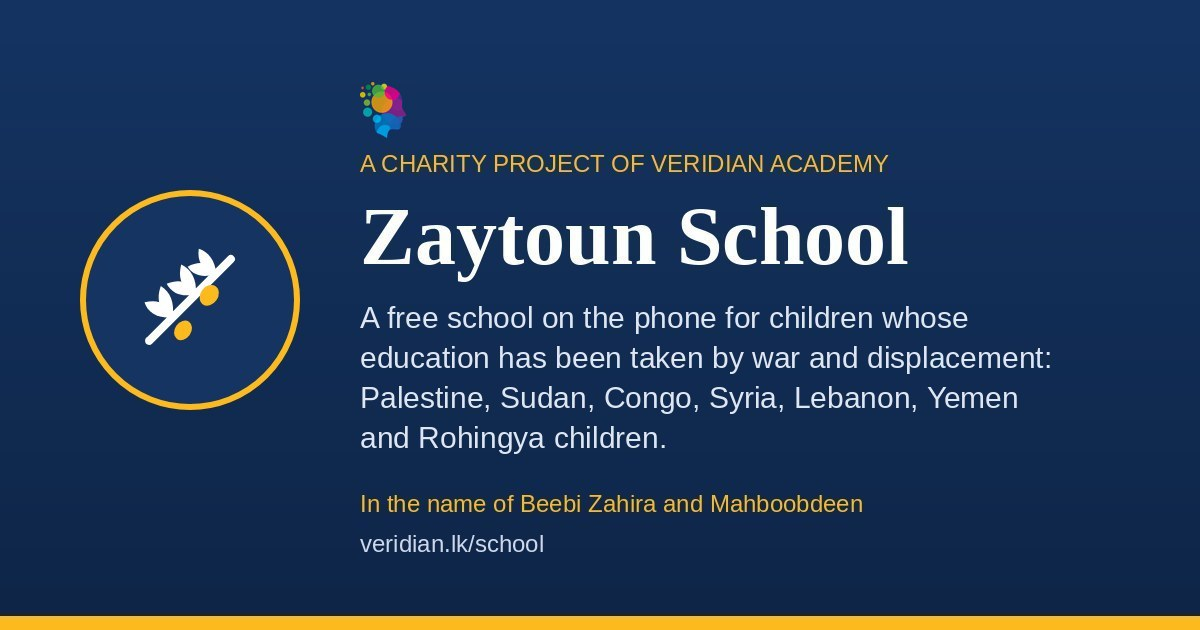
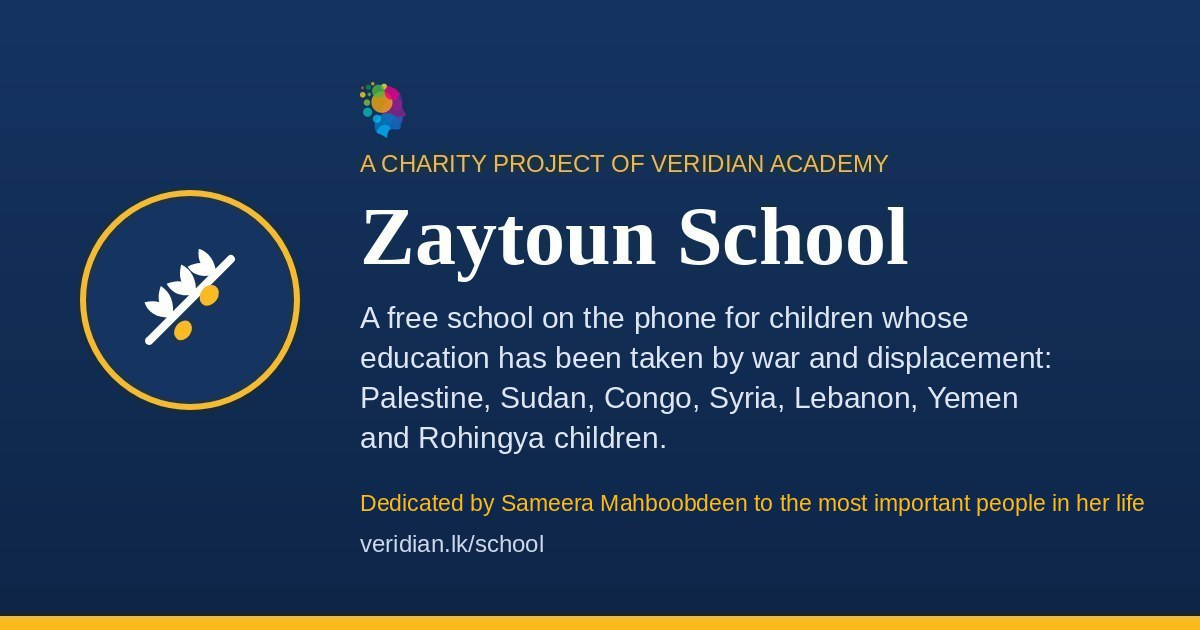
Dedication: to the most important people in my life
Claude-Session: https://claude.ai/code/session_01XxK8kg5TA4EYiyGmqT5x9P

Changed region(s): [[0.2775, 0.7841, 0.9558, 0.8143]]

diff --git a/school/index.html b/school/index.html
@@ -5,7 +5,7 @@
 <meta name="description" content="A free school on the phone for children whose education has been taken by war and displacement: Palestine, Sudan, Congo, Syria, Lebanon, Yemen and Rohingya children. A charity project of Veridian Academy.">
 <link rel="canonical" href="https://veridian.lk/school">
 <meta property="og:type" content="website"><meta property="og:site_name" content="Veridian Academy">
-<meta property="og:title" content="Zaytoun School · مدرسة الزيتون"><meta property="og:description" content="A free school on the phone for children affected by war. A charity project of Veridian Academy, in the name of Beebi Zahira and Mahboobdeen.">
+<meta property="og:title" content="Zaytoun School · مدرسة الزيتون"><meta property="og:description" content="A free school on the phone for children affected by war. A charity project of Veridian Academy, dedicated by its founder to the most important people in her life.">
 <meta property="og:url" content="https://veridian.lk/school"><meta property="og:image" content="https://veridian.lk/img/share/school.jpg"><meta property="og:image:width" content="1200"><meta property="og:image:height" content="630"><meta property="og:image:alt" content="Zaytoun School">
 <meta name="twitter:card" content="summary_large_image"><meta name="twitter:image" content="https://veridian.lk/img/share/school.jpg">
 <meta charset="utf-8">
@@ -106,7 +106,7 @@ html[dir="rtl"] .kick{letter-spacing:0;font-family:var(--f-ar)}
 html[dir="rtl"] .hbtn{font-family:var(--f-ar)}
 .dedic{background:var(--surface);border:1px solid var(--line);border-inline-start:4px solid #FDBA1E;border-radius:6px;padding:20px 22px}
 .dedic h2{font:700 1.45rem/1.2 "Times New Roman",Times,serif;color:var(--olive);margin:0 0 8px}
-.dedic p{margin:0 0 10px}.dedic p:last-child{margin:0;font-style:italic}
+.dedic p{margin:0 0 10px}.dedic p.dsign{margin:-4px 0 12px;color:#b07a00;font-weight:700;font-size:.95rem}.dedic p:last-child{margin:0;font-style:italic}
 .sect{font:700 1.3rem "Times New Roman",Times,serif;color:var(--olive)!important;margin:6px 0 0}
 html[dir="rtl"] .sect{font-family:var(--f-ar)}
 .pcards{display:grid;grid-template-columns:repeat(auto-fill,minmax(250px,1fr));gap:12px}
@@ -243,7 +243,7 @@ var T={
   ab_kick:"مشروع خيري من أكاديمية فيريديان",ab_title:"مدرسة الزيتون",
   ab_lead:"مدرسة مجانية على الهاتف للأطفال الذين حرمتهم الحرب والنزوح من التعليم: في غزة وكل فلسطين، والسودان، والكونغو، وسوريا، ولبنان، واليمن، ولأطفال الروهينغا.",
   ab_start:"ادخل إلى ركن الأطفال",ab_help:"اطلب دعمًا دراسيًا",
-  ab_dkick:"إهداء ووفاء",ab_dtitle:"باسم بيبي زهيرة ومحبوب الدين",
+  ab_dkick:"إهداء ووفاء",ab_dtitle:"إهداء إلى أعزّ الناس في حياتي",ab_dsign:"— سميرة محبوب الدين",
   ab_dtext:"مدرسة الزيتون مشروع خيري أهدته سميرة محبوب الدين، مؤسِّسة أكاديمية فيريديان، إلى روح والديها الراحلَين: أمّها بيبي زهيرة، وأبيها محبوب الدين. فقد ساندا طوال حياتهما تعليم الأطفال الذين احتاجوا إلى العون ليواصلوا دراستهم، وهذه المدرسة امتداد لعطائهما.|وتستذكر بالعرفان معلّمها للغة الإنجليزية، الأستاذ فوزر، رحمه الله، الذي شجّعها على أن تتبع ما يمليه قلبها.|ويقف إلى جانبها زوجها محمد إنصاف، وولداها زينة وزهير، في دعمها المتواصل لشعب فلسطين بكل ما تستطيع.|وإن انتفع بهذا الجهد طفلٌ واحد، فليكن أجره كلّه لوالديها ولمعلّمها، صدقةً جاريةً باسمهم. رحمهم الله جميعًا.",
   ab_what:"ماذا تجد هنا",ab_c1:"ركن الأطفال",ab_c1b:"حروف وأرقام وأناشيد ورسم وقصص وألعاب",ab_c2b:"استمع إلى السور القصيرة واحفظها",ab_c3b:"دروس جماعية مع معلّمين متطوّعين",ab_c4b:"دروس لليافعين والكبار بدون معدّات",ab_c5b:"للأهل والمعلّمين: اطلبوا مساعدة في الدراسة",ab_c6b:"انضمّ إلينا كمعلّم متطوّع",
   ab_promise:"مجانية بالكامل، بلا إعلانات ولا حسابات|تعمل على الهواتف البسيطة، وبدون إنترنت بعد أول فتح|لا نطلب أسماء الأطفال الكاملة ولا صورهم ولا عناوينهم",
@@ -289,7 +289,7 @@ var T={
   ab_kick:"A charity project of Veridian Academy",ab_title:"Zaytoun School",
   ab_lead:"A free school on the phone for children whose education has been taken from them by war and displacement: in Gaza and across Palestine, Sudan, Congo, Syria, Lebanon and Yemen, and for Rohingya children.",
   ab_start:"Enter the kids' area",ab_help:"Ask for academic support",
-  ab_dkick:"Dedication",ab_dtitle:"In the name of Beebi Zahira and Mahboobdeen",
+  ab_dkick:"Dedication",ab_dtitle:"Dedicated to the most important people in my life",ab_dsign:"— Sameera Mahboobdeen",
   ab_dtext:"Zaytoun School is a charity project dedicated by Sameera Mahboobdeen, founder of Veridian Academy, to her late parents: her mother, Beebi Zahira, and her father, Mahboobdeen. Throughout their lives they supported the education of children who needed help to stay in school, and this school continues their work.|She also honours her late English teacher, Mr. Fawzer, who encouraged her to follow her heart.|Her husband, Mohamed Inshaf, and her children, Zaina and Zaheer, stand beside her in her continuing support for the people of Palestine, in every way she is able.|If even one child benefits from this effort, may every reward from it pass to her parents and her teacher, as a continuing charity (sadaqah jariyah) in their name. May Allah have mercy on them.",
   ab_what:"What you will find here",ab_c1:"Kids' area",ab_c1b:"Letters, numbers, songs, drawing, stories and games",ab_c2b:"Listen to and memorise the short surahs",ab_c3b:"Group classes with volunteer teachers",ab_c4b:"Lessons for teens and adults, no equipment",ab_c5b:"For parents and teachers: request help with studies",ab_c6b:"Join us as a volunteer teacher",
   ab_promise:"Completely free, with no adverts and no accounts|Works on simple phones, and offline after the first visit|We never ask for children's full names, photos or addresses",
@@ -471,7 +471,7 @@ function about(){
   return href?'<a class="pcard" href="'+href+'">'+inner+'</a>':'<button class="pcard" data-go="'+go+'">'+inner+'</button>'};
  return '<section class="hero"><p class="kick vk"><img src="/img/mark.png" alt="Veridian Academy">'+t("ab_kick")+'</p><h2>'+t("ab_title")+'</h2><p>'+t("ab_lead")+'</p>'+
   '<div class="herobtns"><button class="hbtn" data-go="kids">'+t("ab_start")+'</button><a class="hbtn ghost" href="/school/help">'+t("ab_help")+'</a></div></section>'+
-  '<section class="dedic"><p class="kick">'+t("ab_dkick")+'</p><h2>'+t("ab_dtitle")+'</h2>'+t("ab_dtext").split("|").map(function(x){return '<p>'+x+'</p>'}).join("")+'</section>'+
+  '<section class="dedic"><p class="kick">'+t("ab_dkick")+'</p><h2>'+t("ab_dtitle")+'</h2><p class="dsign">'+t("ab_dsign")+'</p>'+t("ab_dtext").split("|").map(function(x){return '<p>'+x+'</p>'}).join("")+'</section>'+
   '<h3 class="sect">'+t("ab_what")+'</h3><div class="pcards">'+
   card("kids",0,"kids",t("ab_c1"),t("ab_c1b"))+card("quran",0,"quran",t("s_quran"),t("ab_c2b"))+card("live",0,"live",t("s_live"),t("ab_c3b"))+
   card(0,"/school/firstaid","aid",t("s_aid"),t("ab_c4b"))+card(0,"/school/help","help",t("ab_help"),t("ab_c5b"))+card(0,"/school/teach","teach",t("s_teach"),t("ab_c6b"))+'</div>'+

diff --git a/index.html b/index.html
@@ -457,7 +457,7 @@ footer .base{border-top:1px solid rgba(255,255,255,.15);margin-top:20px;font-siz
     <a class="card" href="#eduragala" style="text-decoration:none"><div class="thumb"><img src="img/ed-hall.webp" alt="The Eduragala Estate medical camp in progress" loading="lazy"></div><div class="body"><span class="tag">Project 3 · Community health</span><h3>Eduragala Estate medical camp</h3><p>A free Ayurveda, Western medicine and eye clinic for the people of Eduragala Estate, Ingiriya, with glasses for those who needed them.</p><span class="more">Read more →</span></div></a>
     <a class="card" href="#elpitiya" style="text-decoration:none"><div class="thumb"><img src="img/el-hall.webp" alt="The Elpitiya Estate camp in progress" loading="lazy"></div><div class="body"><span class="tag">Project 4 · Community health</span><h3>Elpitiya Estate medical &amp; eye camp</h3><p>A medical and eye check-up camp for the workers and residents of Elpitiya Estate, with follow-up screening and hospital referrals.</p><span class="more">Read more →</span></div></a>
     <a class="card" href="#fearless" style="text-decoration:none"><div class="thumb"><img src="img/sf-landscape.webp" alt="A painting made at the fundraiser" loading="lazy" style="object-position:center 60%"></div><div class="body"><span class="tag">Project 5 · Fundraiser for Gaza</span><h3>An Afternoon of Art and Breath</h3><p>An art and relaxation session at The Fearless Space, raising funds for Al Noor Educational Classes, a school in Gaza.</p><span class="more">Read more →</span></div></a>
-    <a class="card" href="/school" style="text-decoration:none"><div class="thumb"><img src="img/share/school.jpg" alt="Zaytoun School" loading="lazy" style="object-position:left center"></div><div class="body"><span class="tag">Project 6 · Free education</span><h3>Zaytoun School · مدرسة الزيتون</h3><p>A free school on the phone for children whose education has been taken by war and displacement, in Palestine, Sudan, Congo, Syria, Lebanon and Yemen, and for Rohingya children. Dedicated to Beebi Zahira and Mahboobdeen.</p><span class="more">Open the school →</span></div></a>
+    <a class="card" href="/school" style="text-decoration:none"><div class="thumb"><img src="img/share/school.jpg" alt="Zaytoun School" loading="lazy" style="object-position:left center"></div><div class="body"><span class="tag">Project 6 · Free education</span><h3>Zaytoun School · مدرسة الزيتون</h3><p>A free school on the phone for children whose education has been taken by war and displacement, in Palestine, Sudan, Congo, Syria, Lebanon and Yemen, and for Rohingya children. Dedicated by our founder to the most important people in her life: her late parents, Beebi Zahira and Mahboobdeen, and her late teacher, Mr. Fawzer.</p><span class="more">Open the school →</span></div></a>
   </div></div></section>
 
   <section class="band" id="expressions" style="padding-bottom:0"><div class="wrap">

diff --git a/school/help.html b/school/help.html
@@ -100,7 +100,7 @@ a{color:var(--navy)}
 <p class="note">Your request goes by email to the Veridian Academy team (veridian@sltnet.lk) and is used only to arrange support.<span class="ar">يصل طلبك عبر البريد الإلكتروني إلى فريق أكاديمية فيريديان، ويُستخدم فقط لترتيب الدعم.</span></p>
 </form>
 
-<footer><p>Zaytoun School is a charity project of Veridian Academy, in the name of Beebi Zahira and Mahboobdeen. · <a href="/">veridian.lk</a></p></footer>
+<footer><p>Zaytoun School is a charity project of Veridian Academy, dedicated by its founder to the most important people in her life. · <a href="/">veridian.lk</a></p></footer>
 </div>
 <script src="/school/nav.js"></script>
 <script>

diff --git a/school-sw.js b/school-sw.js
@@ -1,6 +1,6 @@
 // Saves the school on the phone the first time it opens, so it works with no internet afterwards.
 // Quran surahs are kept in a separate cache ("zaytoun-quran") by the page itself, and are never deleted here.
-var CACHE = "zaytoun-v5";
+var CACHE = "zaytoun-v6";
 var KEEP = [CACHE, "zaytoun-quran"];
 var FILES = ["/school", "/school/firstaid", "/school/teach", "/school/help", "/school/nav.js", "/school/manifest.webmanifest", "/school/icon.svg"];
 self.addEventListener("install", function (e) {
